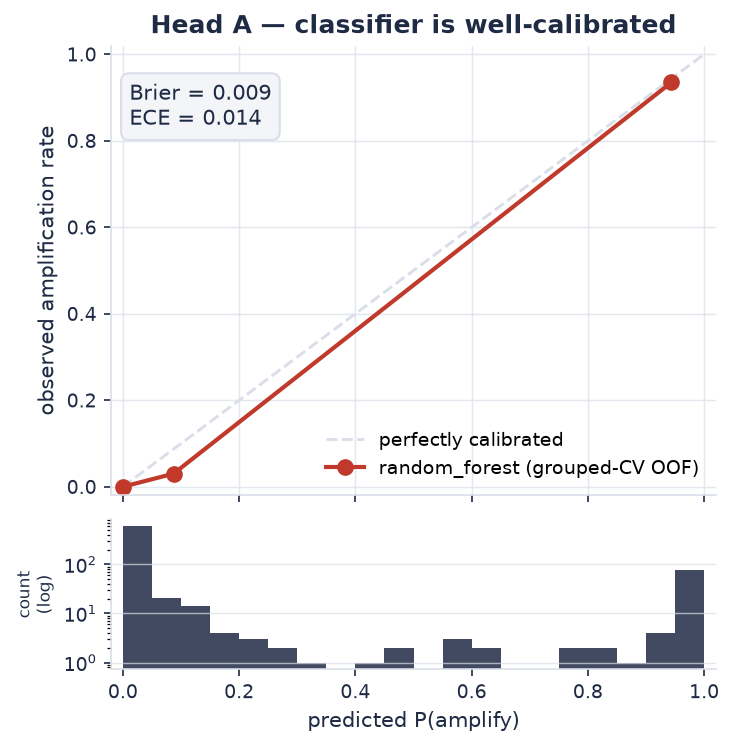
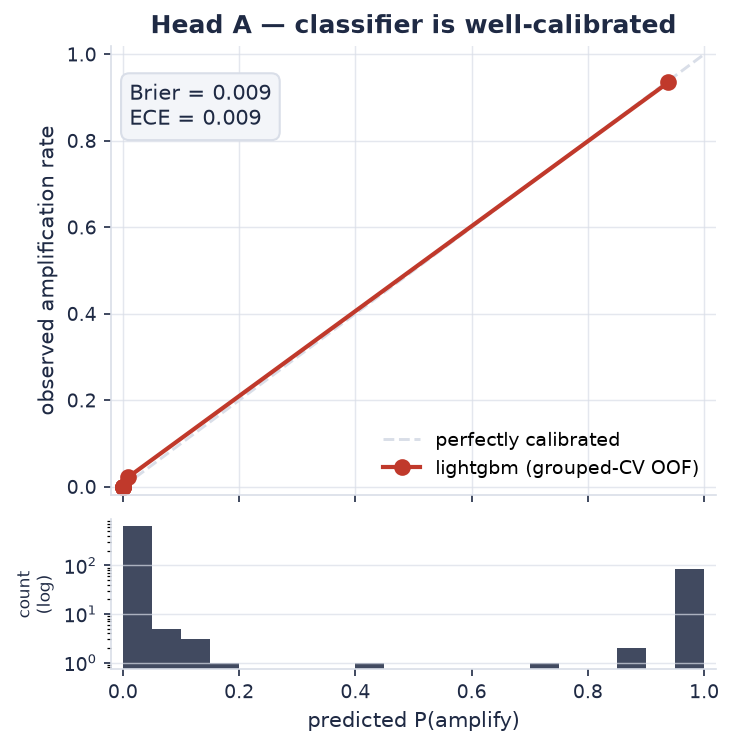
docs: surface Head B cross-source transfer + make Docker launch the app
Head B (the generalization story, previously invisible):
- head_b.py: run_transfer_matrix() — full train-on-X/test-on-Y Spearman matrix
  with a fixed per-source hold-out (honest diagonal, comparable cells); recorded
  in the head_b.json report.
- make_figures.py: theme-matched transfer heatmap. Mean diagonal 0.32 vs
  off-diagonal 0.04 — signal barely survives a source change (Erlich<->Gao 0.55-
  0.66; Choi adversarial -0.34). Embedded in README + model_card_head_b.md.

Docker:
- Dockerfile now installs .[copilot] + libgomp1/BLAST+ and launches Streamlit,
  so 'docker run -p 8501:8501' gives a working app; documented in the README.

diff --git a/scripts/make_figures.py b/scripts/make_figures.py
@@ -16,6 +16,7 @@ Run inside the ``primer`` env after the models are built::
 
 from __future__ import annotations
 
+import json
 from pathlib import Path
 
 import joblib
@@ -24,6 +25,8 @@ import matplotlib
 matplotlib.use("Agg")
 import matplotlib.pyplot as plt  # noqa: E402
 import numpy as np  # noqa: E402
+from matplotlib.colors import LinearSegmentedColormap, TwoSlopeNorm  # noqa: E402
+from matplotlib.patches import Rectangle  # noqa: E402
 from sklearn.calibration import calibration_curve  # noqa: E402
 from sklearn.metrics import brier_score_loss  # noqa: E402
 
@@ -127,6 +130,64 @@ def importance_figure():
     return names[-1]
 
 
+def transfer_figure(report_path="data/reports/head_b.json"):
+    """Head B train-on-X / test-on-Y Spearman heatmap (domain-shift, pairwise)."""
+    p = Path(report_path)
+    if not p.exists():
+        print(f"skip transfer figure: {report_path} not found (run predictor.pipeline.head_b)")
+        return None
+    rep = json.loads(p.read_text())
+    mat = rep.get("transfer_matrix")
+    if not mat:
+        print("skip transfer figure: report has no transfer_matrix (re-run head_b)")
+        return None
+    sources = list(mat)
+    labels = [s.replace("_et_al", "") for s in sources]
+    M = np.array([[mat[a][b] for b in sources] for a in sources], dtype=float)
+
+    # diverging: accent (negative transfer) -> neutral (0) -> ink (strong transfer)
+    cmap = LinearSegmentedColormap.from_list("transfer", [ACCENT, "#f4f6fb", INK])
+    norm = TwoSlopeNorm(vmin=min(-0.05, M.min()), vcenter=0.0, vmax=max(0.05, M.max()))
+
+    fig, ax = plt.subplots(figsize=(5.9, 5.2), dpi=150)
+    im = ax.imshow(M, cmap=cmap, norm=norm, aspect="equal")
+    ax.set_xticks(range(len(labels)), labels, rotation=45, ha="right", fontsize=9, color=INK)
+    ax.set_yticks(range(len(labels)), labels, fontsize=9, color=INK)
+    ax.set_xlabel("tested on  →", color=INK, fontsize=10)
+    ax.set_ylabel("←  trained on", color=INK, fontsize=10)
+    ax.set_title(
+        "Head B — efficiency transfers within a source, not across",
+        color=INK,
+        fontsize=11.5,
+        weight="bold",
+        pad=12,
+    )
+    for i in range(len(sources)):
+        for j in range(len(sources)):
+            v = M[i, j]
+            rgba = cmap(norm(v))
+            lum = 0.299 * rgba[0] + 0.587 * rgba[1] + 0.114 * rgba[2]
+            ax.text(
+                j,
+                i,
+                f"{v:.2f}",
+                ha="center",
+                va="center",
+                fontsize=8.5,
+                color="white" if lum < 0.55 else INK,
+                fontfamily="monospace",
+            )
+        ax.add_patch(Rectangle((i - 0.5, i - 0.5), 1, 1, fill=False, ec=INK, lw=2))
+    cbar = fig.colorbar(im, ax=ax, fraction=0.046, pad=0.04)
+    cbar.set_label("Spearman", color=INK, fontsize=9)
+    cbar.ax.tick_params(colors=INK, labelsize=8)
+    ax.tick_params(colors=INK)
+    fig.tight_layout()
+    fig.savefig(OUT / "transfer_head_b.png", bbox_inches="tight")
+    plt.close(fig)
+    return rep.get("transfer_diag_mean"), rep.get("transfer_offdiag_mean")
+
+
 def main():
     OUT.mkdir(parents=True, exist_ok=True)
     tbl = build_feature_table()
@@ -138,6 +199,9 @@ def main():
     print(f"calibration: {best}  Brier={brier:.3f} ECE={ece:.3f}")
     print(f"top efficiency feature: {top}")
     print(f"wrote {OUT}/calibration_head_a.png, {OUT}/feature_importance_head_a.png")
+    tr = transfer_figure()
+    if tr:
+        print(f"transfer: diag={tr[0]:.3f} offdiag={tr[1]:.3f}  wrote {OUT}/transfer_head_b.png")
 
 
 if __name__ == "__main__":

diff --git a/predictor/pipeline/head_b.py b/predictor/pipeline/head_b.py
@@ -79,6 +79,37 @@ def run_generalization(tbl, model_name="xgboost") -> dict[str, dict[str, float]]
     return out
 
 
+def run_transfer_matrix(
+    tbl, model_name="xgboost", test_frac=0.3, seed=0
+) -> dict[str, dict[str, float]]:
+    """Full train-on-source-X / test-on-source-Y Spearman matrix.
+
+    A single fixed per-source hold-out makes every cell comparable and leakage-
+    free: the diagonal (train X_train -> test X_test) is honest *within*-source
+    generalization, the off-diagonal is cross-source transfer. The contrast
+    between the diagonal and its row is the domain-shift signal, made pairwise.
+    """
+    rng = np.random.default_rng(seed)
+    X = tbl[FEATURES].to_numpy(float)
+    y = tbl["eff"].to_numpy(float)
+    src = tbl["source"].to_numpy()
+    train_idx, test_idx = {}, {}
+    for s in SOURCES:
+        idx = rng.permutation(np.flatnonzero(src == s))
+        cut = int(len(idx) * (1.0 - test_frac))
+        train_idx[s], test_idx[s] = idx[:cut], idx[cut:]
+
+    matrix = {}
+    for s_tr in SOURCES:
+        est = get_model(model_name, _REG_PARAMS[model_name])
+        est.fit(X[train_idx[s_tr]], y[train_idx[s_tr]])
+        matrix[s_tr] = {
+            s_te: float(spearmanr(y[test_idx[s_te]], est.predict(X[test_idx[s_te]])).correlation)
+            for s_te in SOURCES
+        }
+    return matrix
+
+
 def main() -> None:
     tbl = build_feature_table()
     X = tbl[FEATURES].to_numpy(float)
@@ -101,6 +132,21 @@ def main() -> None:
         print(f"{s:<16}{d['spearman']:>10.3f}{d['rmse']:>9.4f}")
     mean_sp = float(np.mean([d["spearman"] for d in gen.values()]))
     best_int = max(internal, key=lambda m: internal[m]["spearman"])
+
+    print("\n== Transfer matrix (train source -> test source, Spearman, xgboost) ==")
+    matrix = run_transfer_matrix(tbl)
+    hdr = "".join(f"{s[:5]:>7}" for s in SOURCES)
+    corner = "train\\test"
+    print(f"{corner:<12}{hdr}")
+    for s_tr in SOURCES:
+        row = "".join(f"{matrix[s_tr][s_te]:>7.2f}" for s_te in SOURCES)
+        print(f"{s_tr:<12}{row}")
+    diag = float(np.mean([matrix[s][s] for s in SOURCES]))
+    offdiag = float(np.mean([matrix[a][b] for a in SOURCES for b in SOURCES if a != b]))
+    print(
+        f"mean diagonal (within-source) = {diag:.3f}  |  mean off-diagonal (cross) = {offdiag:.3f}"
+    )
+
     report = {
         "source": "eth_pcr_bias",
         "n_rows": int(len(tbl)),
@@ -110,6 +156,9 @@ def main() -> None:
         "cross_source_loso": gen,
         "mean_cross_source_spearman": mean_sp,
         "best_internal_model": best_int,
+        "transfer_matrix": matrix,
+        "transfer_diag_mean": diag,
+        "transfer_offdiag_mean": offdiag,
         "note": "internal vs cross-source gap is the domain-shift signal",
     }
     Path("data/reports").mkdir(parents=True, exist_ok=True)

diff --git a/README.md b/README.md
@@ -72,6 +72,18 @@ plainly, not hidden.
 > Regenerate the figures with `python scripts/make_figures.py` (needs the
 > `dev` extra) after the models are built.
 
+**Head B — the generalization story.** Train on one ETH source, test on every
+source. The boxed diagonal is within-source generalization; the rest is
+cross-source transfer. Mean diagonal **0.32** vs mean off-diagonal **0.04** —
+efficiency signal barely survives a source change, and the structure is real
+(Erlich↔Gao transfer at 0.55–0.66; Choi is adversarial at −0.34). This domain
+shift is the point of Head B, not a defect to hide — details in
+[`docs/model_card_head_b.md`](docs/model_card_head_b.md).
+
+<p align="center">
+  <img src="docs/figures/transfer_head_b.png" alt="Head B cross-source transfer matrix (train source vs test source, Spearman)" width="62%">
+</p>
+
 ## Layout
 
 ```
@@ -106,6 +118,17 @@ pip install -e ".[copilot]"            # base + streamlit + openai + anthropic
 # 3. Run the app
 streamlit run copilot/app/main.py      # -> http://localhost:8501
 ```
+
+**Or with Docker** — no conda, no system-dependency wrangling:
+
+```bash
+docker build -t primer-design-suite .
+docker run --rm -p 8501:8501 primer-design-suite            # -> http://localhost:8501
+#   Design (agent) tab needs a key:  -e OPENAI_API_KEY=sk-...
+```
+
+The image bundles `libgomp1` + BLAST+, installs `.[copilot]`, and launches the
+app; the head-A models still build on first launch from the committed data.
 
 **First launch builds the head-A models automatically** (~20 s) from the
 committed openPrimeR data — the trained artifacts aren't committed (they're

diff --git a/docs/model_card_head_b.md b/docs/model_card_head_b.md
@@ -37,6 +37,19 @@ constraint is itself the clearest evidence of the domain gap vs Source A.
 (GCall 0.15, GCfix 0.07, Choi **−0.15**, Erlich 0.34, Gao 0.43, Koch 0.07,
 Song 0.17).
 
+**Transfer matrix (train on one source, test on each source, xgboost):** the
+same story made pairwise. A single fixed per-source hold-out makes every cell
+comparable — the boxed diagonal is honest *within*-source generalization, the
+rest is cross-source transfer.
+
+![Head B transfer matrix](figures/transfer_head_b.png)
+
+**Mean diagonal 0.32 vs mean off-diagonal 0.04** — efficiency signal barely
+survives a source change. The structure is real, not noise: Erlich and Gao
+transfer strongly to *each other* (0.55–0.66) while Choi is adversarial to them
+(−0.34), so "PCR efficiency" is partly a per-experiment quantity, not a single
+universal function of sequence.
+
 **The internal (0.32) vs cross-source (0.15, one source negative) gap is the
 domain-shift signal.**
 